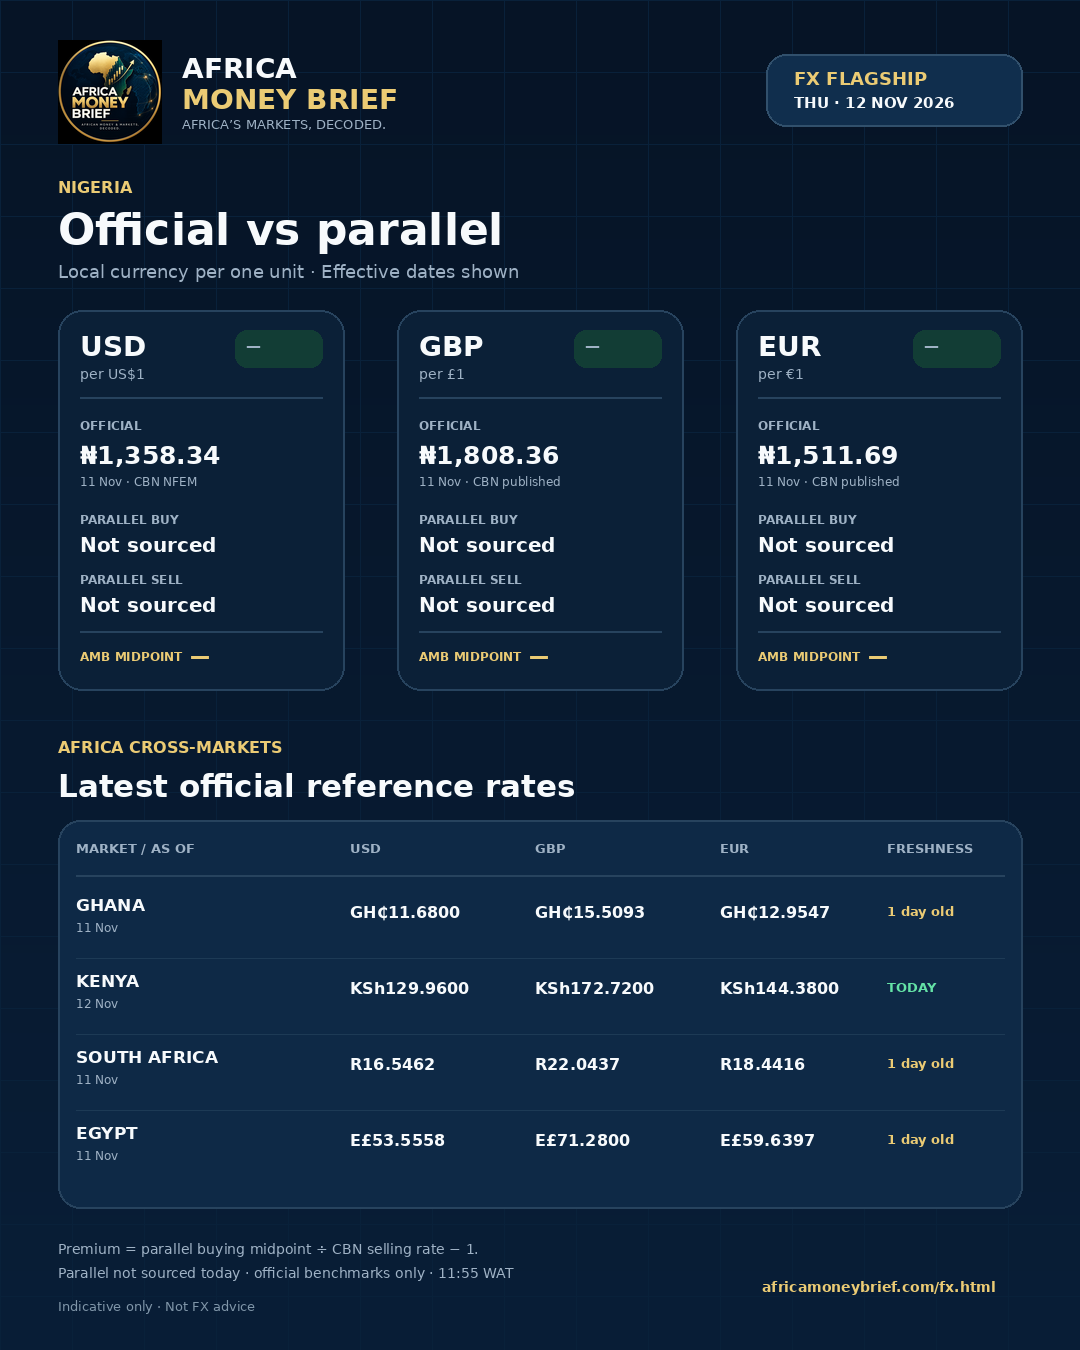
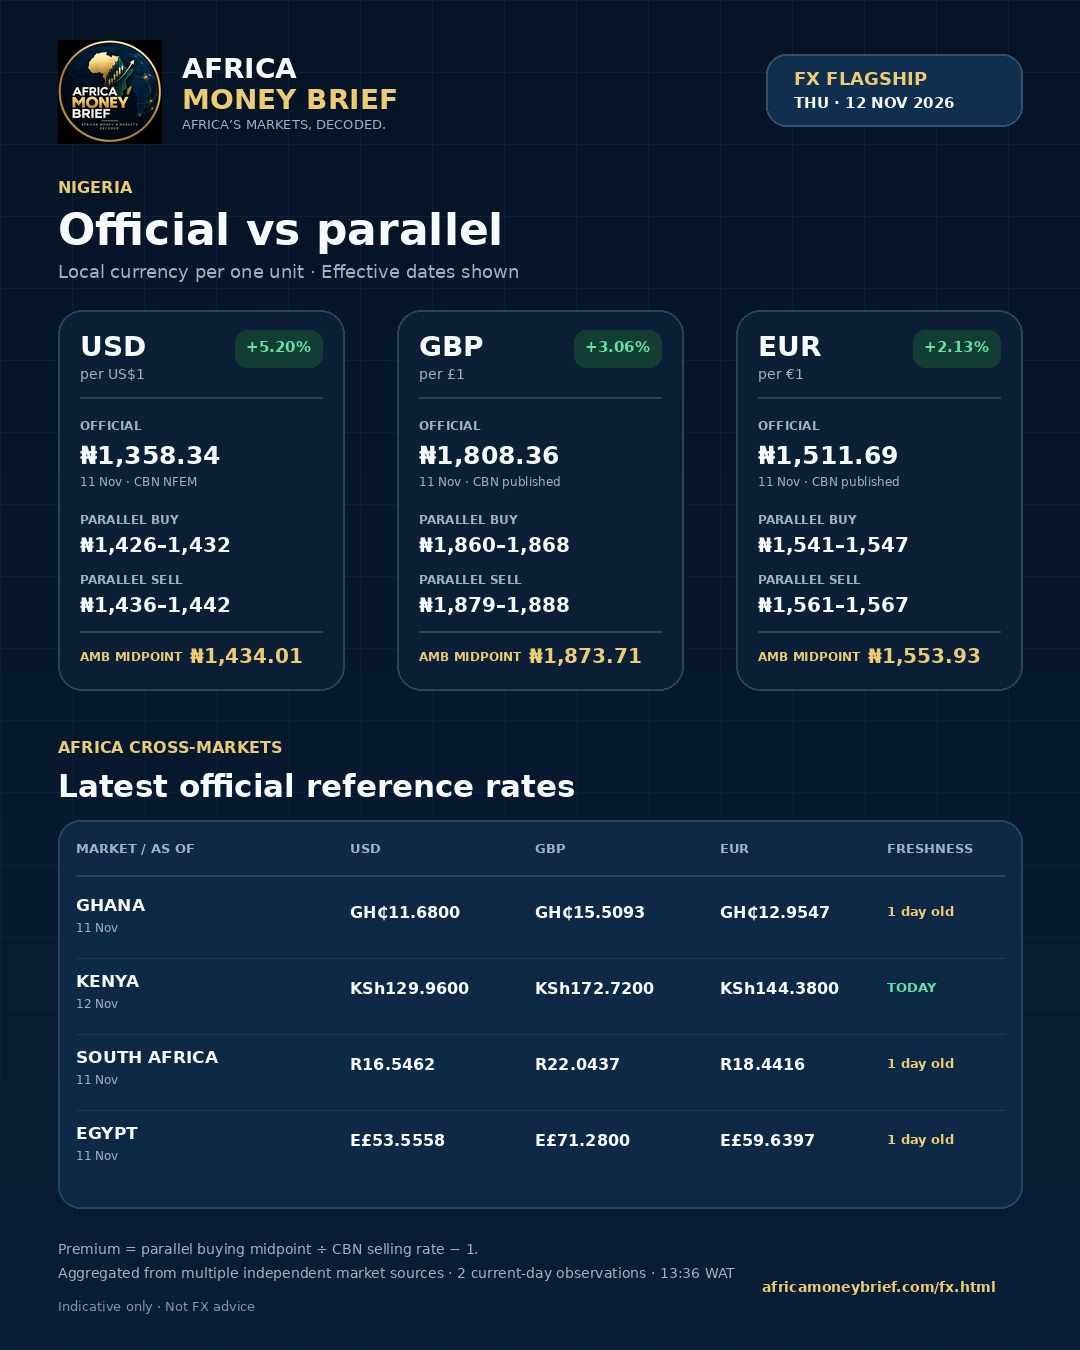
PREPARED Early Look 2026-11-13 (timestamp fix, main files restored)
Status: PREPARED — NOT PUBLISHED

Claude-Session: https://claude.ai/code/session_01X8HPGJtUzBr4tDD4a4Ec9w

diff --git a/handoff/fx/2026-11-13-early.md b/handoff/fx/2026-11-13-early.md
@@ -2,7 +2,7 @@
 
 **Status: PREPARED — NOT PUBLISHED** · Partial package: BLOCKED_SOURCE (Nigeria parallel, SARB 12 Nov, CBE 12 Nov)
 
-- WAT verification timestamp: 13 Nov 2026, 06:27 WAT. `staging/claude-fx` synchronised with current `main` (merge, no force-push) before preparing.
+- WAT verification timestamp: 13 Nov 2026, 06:20 WAT. `staging/claude-fx` synchronised with current `main` (merge, no force-push) before preparing.
 - Commit SHA: commit "PREPARED Early Look 2026-11-13" on `staging/claude-fx` (SHA in run summary; a commit cannot embed its own SHA).
 
 ## Official sources
@@ -32,7 +32,7 @@
 ## Unresolved issues
 
 - BLOCKED_SOURCE: Nigeria parallel (all currencies), SARB 12 Nov, CBE 12 Nov.
-- Merge housekeeping: my sync merge briefly committed conflict markers in data/fx/2026-11-12.json; restored to origin/main's version before the package commit. Verify that file equals main.
+- Merge housekeeping (also restored Flagship 11-12 image/text to main): my sync merge briefly committed conflict markers in data/fx/2026-11-12.json; restored to origin/main's version before the package commit. Verify that file equals main.
 
 ## Render / test results
 
